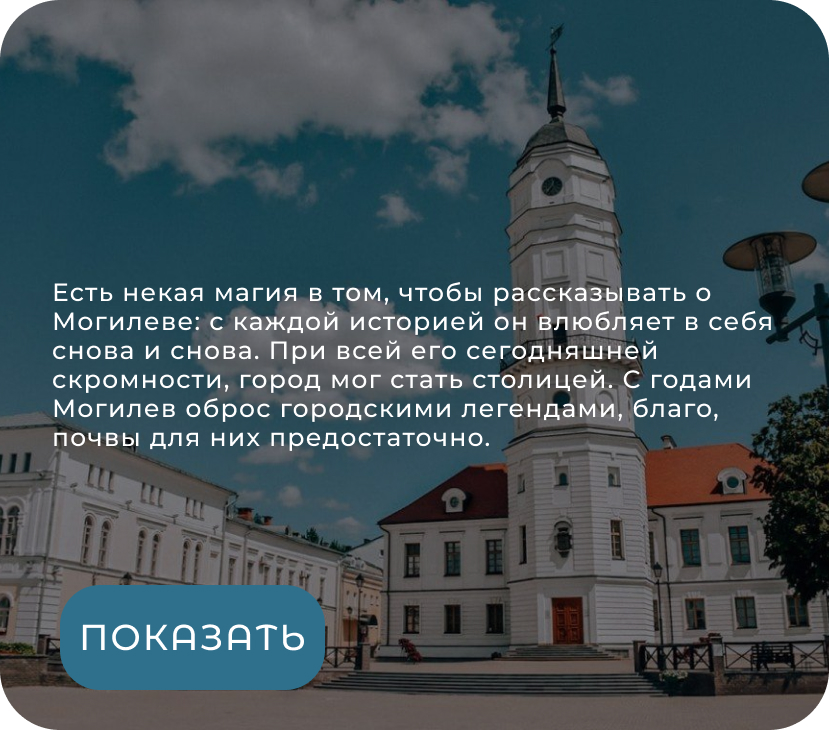
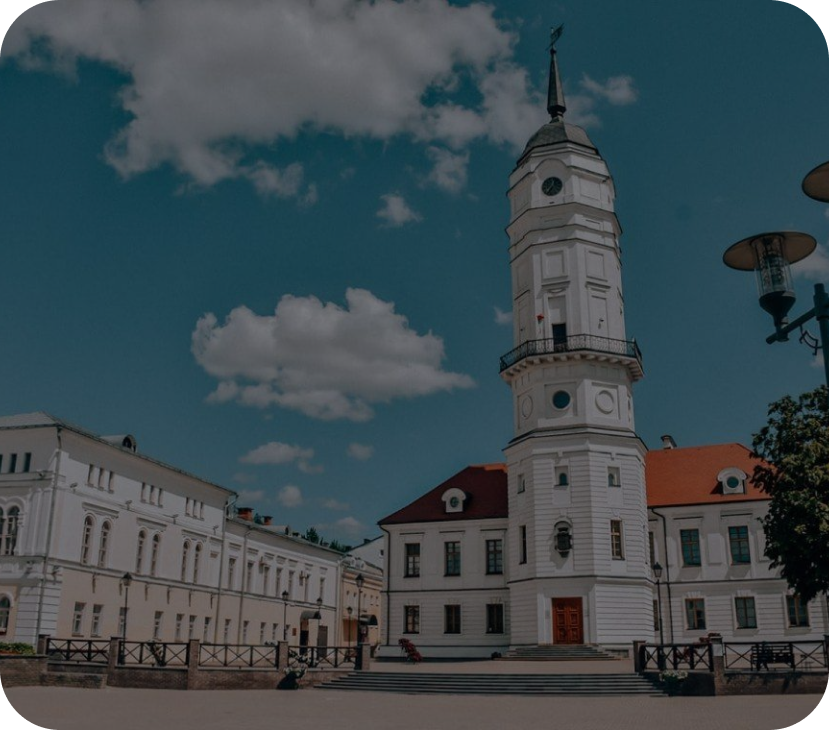
Добавил главную страницу. Отредактировал стартувую страницу. Наладил связь

Changed region(s): [[0.0603, 0.3918, 0.9349, 0.6329], [0.0603, 0.7836, 0.392, 0.9644]]

diff --git a/NewFunTrip/web/FullCity.html b/NewFunTrip/web/FullCity.html
@@ -4,12 +4,19 @@
     <meta charset="UTF-8">
     <meta name="viewport" content="width=device-width, initial-scale=1.0">
     <link rel="stylesheet" type="text/css" href="./css/FullCity.css" />
+    <link rel="stylesheet" href="../web/Brest.html">
+    <link rel="stylesheet" href="../web/Grodno.html">
+    <link rel="stylesheet" href="../web/Gomel.html">
+    <link rel="stylesheet" href="../web/Vitebsk.html">
+    <link rel="stylesheet" href="../web/Mogilev.html">
+    <link rel="stylesheet" href="../web/Minsk.html">
     <title>FunTrip</title>
 </head>
+
 <body>
-    <div class="wrapper">
+    <!-- <div class="wrapper">
         <div class="container">
-            <input type="radio" name="slide" id="c1" >
+            <input type="radio" name="slide" id="c1" checked >
             <label for="c1" class="card">
                 <div class="row">
                     <div class="icon"> 1 </div>
@@ -70,6 +77,80 @@
                 </div>
             </label>
         </div>
-    </div>
+    </div> -->
+    <main>
+        <div class="card">
+            <a href="../web/Brest.html">
+                <img src="../web/foto/StartScreen/Brest.jpg" class="image">
+                <img src="../web/foto/StartScreen/Brest.jpg" class="background">
+                <div class="layer">
+                    <div class="info">
+                        <p>Между Беловежской пущей и Брестской крепостью, на самой границе Беларуси и Польши, находится Брест – город с богатой и сложной историей, модными барами и очаровательными персонажами, вроде фонарщика, который по вечерам зажигает фонари на Советской. Изучать и открывать что-то новое в Бресте можно бесконечно.</p>
+                        <h1>БРЕСТ</h1>
+                    </div>
+                </div>
+            </a>
+        </div>
+        <div class="card">
+            <a href="../web/Grodno.html">
+                <img src="../web/foto/StartScreen/Grodno.png" class="image">
+                <img src="../web/foto/StartScreen/Grodno.png" class="background">
+                <div class="layer">
+                    <div class="info">
+                        <p>Культурная столица Беларуси, столица беларусского католицизма, вторая столица Беларусской Народной Республики и третья столица Речи Посполитой, Гродно – город с узнаваемым лицом, пылким характером и тысячелетней  историей. Насыщенная культурная программа и лучшие заведения, которые позволят почувствовать силу места.</p>
+                        <h1>ГОДНО</h1>
+                    </div>
+                </div>
+            </a>
+        </div>
+        <div class="card">
+            <a href="../web/Gomel.html">
+                <img src="../web/foto/StartScreen/Gomel.png" class="image">
+                <img src="../web/foto/StartScreen/Gomel.png" class="background">
+                <div class="layer">
+                    <div class="info">
+                        <p>Гомель – это тот город, где можно расслабиться и никуда не спешить. Неторопливо прогуляться по старой улице Советской с интересными памятниками архитектуры, перейти самый длинный пешеходный мост в стране или позагорать на большом городском пляже. В Гомеле есть множество уютных скверов, потаенных улиц и хороших заведений, а еще здесь довольно бурная культурная жизнь.</p>
+                        <h1>ГОМЕЛЬ</h1>
+                    </div>
+                </div>
+            </a>
+        </div>
+        <div class="card">
+            <a href="../web/Mogilev.html">
+                <img src="../web/foto/StartScreen/Mogilev.png" class="image">
+                <img src="../web/foto/StartScreen/Mogilev.png" class="background">
+                <div class="layer">
+                    <div class="info">
+                        <p>Есть некая магия в том, чтобы рассказывать о Могилеве: с каждой историей он влюбляет в себя снова и снова. При всей его сегодняшней скромности, город мог стать столицей. С годами Могилев оброс городскими легендами, благо, почвы для них предостаточно.</p>
+                        <h1>МОГИЛЁВ</h1>
+                    </div>
+                </div>
+            </a>
+        </div>
+        <div class="card">
+            <a href="../web/Vitebsk.html">
+                <img src="../web/foto/StartScreen/Vitebsk.png" class="image">
+                <img src="../web/foto/StartScreen/Vitebsk.png" class="background">
+                <div class="layer">
+                    <div class="info">
+                        <p>Витебск – родина Шагала и Цадкина. Это город на трех речках и пяти ландшафтных ярусах, куда едут за духом старого брик-стайла, уютом пешеходной улицы и концертами в небольших клубах. Когда-то Витебск защищал восточные границы Полоцкого княжества, Великого Княжества Литовского и Речи Посполитой.  В своем новом возрождении в начале ХХ века город поднял флаг с профилями Шагала и Малевича на нем и принялся создавать новый бренд: Витебск – это, конечно, город художников.</p>
+                        <h1>ВИТЕБСК</h1>
+                    </div>
+                </div>
+            </a>
+        </div>
+        <div class="card">
+            <a href="../web/Minsk.html">
+                <img src="../web/foto/StartScreen/Minsk.png" class="image">
+                <img src="../web/foto/StartScreen/Minsk.png" class="background">
+                <div class="layer">
+                    <div class="info">
+                        <p>Минск - столица и областной центр Минской области. Город предлагает туристам богатую культурную программу, разнообразные музеи, театры, парки и архитектурные достопримечательности, такие как Национальная библиотека, остров Траецкае Праця, Минский мир и другие.</p>
+                        <h1>МИНСК</h1>
+                    </div>
+                </div>
+            </a>
+        </div>
+    </main>
 </body>
 </html>

diff --git a/NewFunTrip/web/css/FullCity.css b/NewFunTrip/web/css/FullCity.css
@@ -1,3 +1,11 @@
+/* :root {
+    --font-family: "Montserrat", sans-serif;
+    --second-family: "Roboto", sans-serif;
+    --third-family: "Roboto Condensed", sans-serif;
+    --font3: "Montserrat Alternates", sans-serif;
+    --font4: "Helvetica", sans-serif;
+  }
+
 * {
     box-sizing: border-box;
     margin: 0;
@@ -91,20 +99,153 @@ input:checked + label .description{
 }
 
 .card[for="c1"]{
-    background-image: url('/web/foto/StartScreen/Brest.jpg');
+    background-image: url("../foto/StartScreen/Brest.jpg");
 }
 .card[for="c2"]{
-    background-image: url('/web/foto/StartScreen/Grodno.png');
+    background-image: url("../foto/StartScreen/Grodno.png");
 }
 .card[for="c3"]{
-    background-image: url('/web/foto/StartScreen/Gomel.png');
+    background-image: url('../foto/StartScreen/Gomel.png');
 }
 .card[for="c4"]{
-    background-image: url('/web/foto/StartScreen/Mogilev.png');
+    background-image: url('../foto/StartScreen/Mogilev.png');
 }
 .card[for="c5"]{
-    background-image: url('/web/foto/StartScreen/Vitebsk.png');
+    background-image: url('../foto/StartScreen/Vitebsk.png');
 }
 .card[for="c6"]{
-    background-image: url('/web/foto/StartScreen/Minsk.png');
+    background-image: url('../foto/StartScreen/Minsk.png');
+} */
+
+*{
+    margin: 0;
+    padding: 0;
+    box-sizing: border-box;
+    font-family: Arial, Helvetica, sans-serif;
+    color: white;
+    transition: 0.5s;
 }
+
+body{
+    width: 100%;
+    height: 100vh;
+    display: flex;
+    align-items: center;
+    justify-content: center;
+}
+body::before{
+    content: "";
+    background-image: url("../foto/StartScreen/Grodno.png");
+    position: absolute;
+    width: 100%;
+    height: 100vh;
+    background-size: cover;
+    background-position: center;
+    filter: brightness(0.65);
+    z-index: -1;
+}
+
+main{
+    width: 1680px;
+    height: 730px;
+    display: flex;
+    gap: 15px;
+}
+
+.card{
+    width: 16%;
+   border-radius: 50px;
+   cursor: pointer; 
+   overflow: hidden;
+}
+
+.card:hover{
+    width: 80%;
+}
+
+.card.image{
+    width: 100%;
+    height: 100%;
+    object-fit: cover;
+}
+
+.card:hover .image{
+    transition: scale(1.2);
+}
+
+.card .background{
+    position: absolute;
+    left: 0;
+    top: 0;
+    z-index: -1;
+    width: 100%;
+    height: 100vh;
+    object-fit: cover;
+    pointer-events: none;
+    filter: brightness(0.25);
+    opacity: 0;
+}
+
+.card:hover .background{
+    opacity: 1;
+}
+
+.card .layer{
+    width: 100%;
+    height: 70%;
+    margin-top: -519px;
+    position: relative;
+    background: linear-gradient(to top, rgba(0, 0, 0, 1.5), transparent);
+}
+
+.card .layer .info h1{
+    width: 270px;
+    position: absolute;
+    bottom: 40px;
+    padding-left: 60px;
+    opacity: 1;
+    margin: 0 auto;
+}
+
+.card .layer .info p{
+    opacity: 0;
+}
+
+.card:hover .layer .info p{
+    opacity: 1;
+}
+
+.info p{
+    width: 700px;
+    height: 300px;
+    color: rgba(255, 255, 255, 0.75);
+    margin: 5px auto;
+}
+
+h1{
+    font-family: var(--font-family);
+    font-weight: 500;
+    font-size: 30px;
+    line-height: 100%;
+    color: #fff;
+}
+
+p{
+    font-family: var(--font-family);
+font-weight: 500;
+font-size: 25px;
+line-height: 115%;
+color: #fff;
+}
+
+a{
+    text-decoration: none;
+}
+
+:root {
+    --font-family: "Montserrat", sans-serif;
+    --second-family: "Roboto", sans-serif;
+    --third-family: "Roboto Condensed", sans-serif;
+    --font3: "Montserrat Alternates", sans-serif;
+    --font4: "Helvetica", sans-serif;
+  }

diff --git a/NewFunTrip/web/index.html b/NewFunTrip/web/index.html
@@ -5,6 +5,7 @@
     <meta name="viewport" content="width=device-width, initial-scale=1.0">
     <link rel="stylesheet" type="text/css" href="./css/index.css" />
     <link rel="stylesheet" type="text/css" href="./css/fonts.css" />
+    <link rel="stylesheet" href="../web/FullCity.html">
     <title>Document</title>
 </head>
 <body>
@@ -18,16 +19,16 @@
             <div class="form-container">
                 <div class="form-container_1">
                     <h1>Построить маршрут самостоятельно</h1>
-                    <h2>Поможем выбрать лучший маршрут, что бы вы точно ничего не пропустили  </h2>
+                    <h2>Мы покажем самые популярные и красивые места Беларуси. Расскажем где лучше всего остановиться и вкусно поесть</h2>
                 </div>
                 <div class="form-container_2">
                     <h1>Попросить построить маршрут</h1>
-                    <h2>Мы покажем самые популярные и красивые места Беларуси. Расскажем где лучше всего остановиться и вкусно поесть</h2>
+                    <h2>Поможем выбрать лучший маршрут, что бы вы точно ничего не пропустили  </h2>
                 </div>
             </div>
             <form>
                 <div class="button">
-                    <button type="submit" formaction="#">Показать</button>
+                    <button type="submit" formaction="../web/FullCity.html">Показать</button>
                     <button type="submit" formaction="#">Показать</button>
                 </div>
             </form>

diff --git a/NewFunTrip/web/css/index.css b/NewFunTrip/web/css/index.css
@@ -61,10 +61,11 @@ color: #000;
 
 .form-container{
     display: flex;
-    margin: 120px;
+    margin: 120px auto;
  
 }
 .form-container_1{
+    margin: 0 auto;
     width: 528px;
     height: 226px;
 }
@@ -92,6 +93,7 @@ color: #505050;
 }
 
 .form-container_2{
+    margin: 0 auto;
     width: 528px;
     height: 226px;
 }
